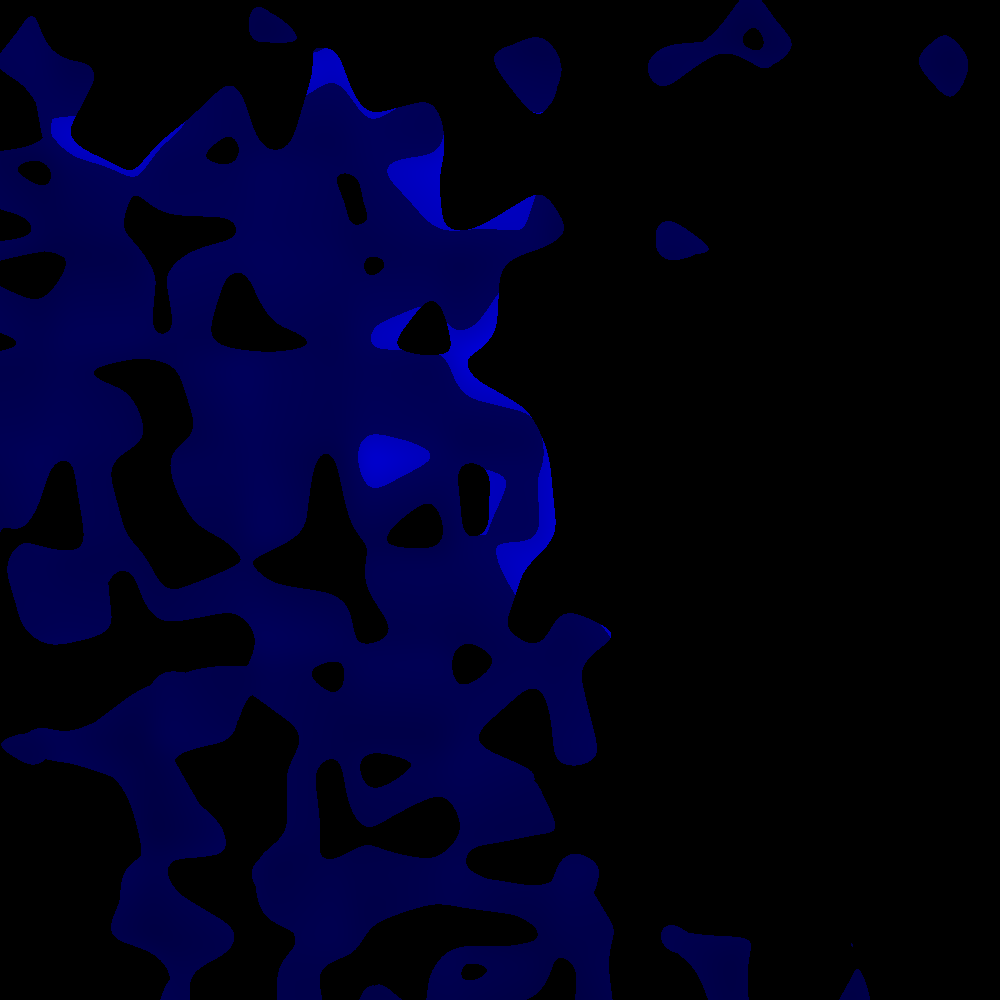
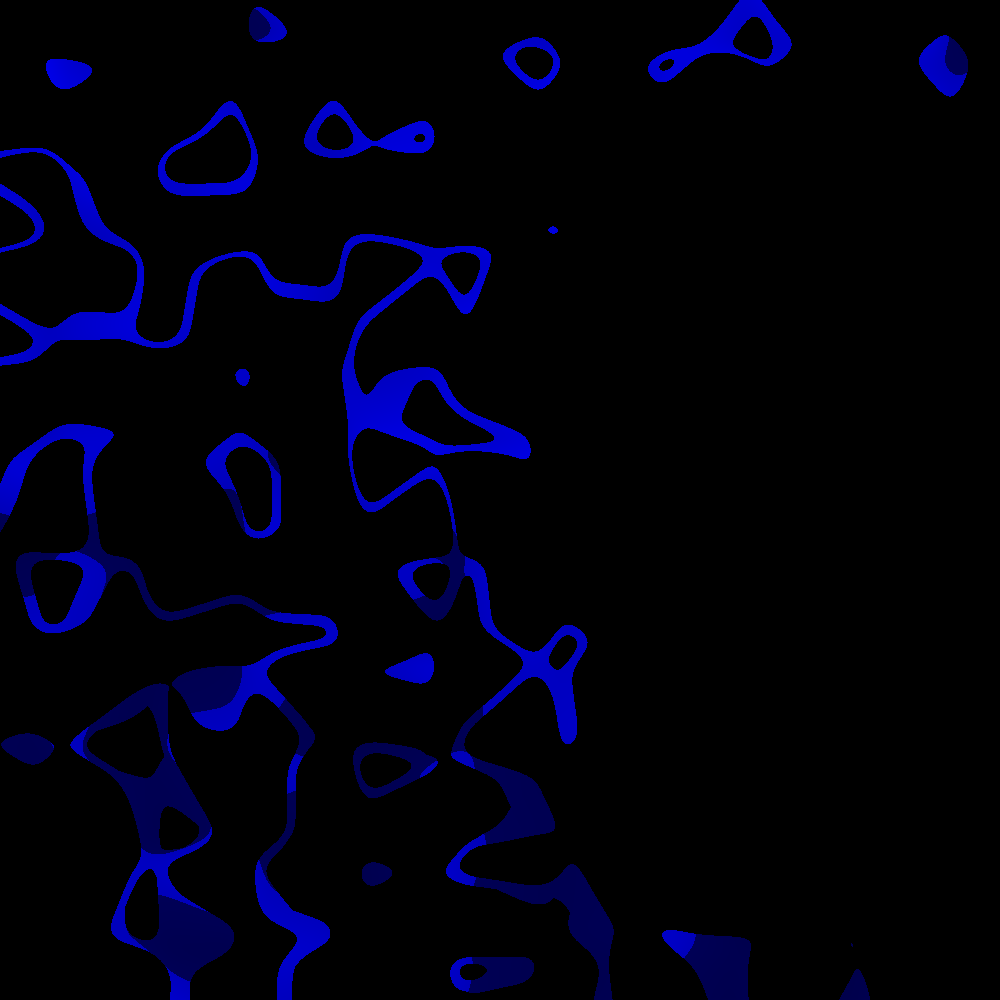
not

diff --git a/lib/src/test/java/procedural_generation/Biomes1Test.java b/lib/src/test/java/procedural_generation/Biomes1Test.java
@@ -88,23 +88,21 @@ public class Biomes1Test {
         }
 
         HashMap<ClimatRule, ClimatMinMax> climatMinMaxes1 = new HashMap<>();
-        climatMinMaxes1.put(wind, new ClimatMinMax(0.4, 0.5, 0.3));
-        climatMinMaxes1.put(temperature, new ClimatMinMax(0.4, 0.5, 0.2));
-        climatMinMaxes1.put(humidity, new ClimatMinMax(0.6, 0.7, 0.2));
+        climatMinMaxes1.put(temperature, new ClimatMinMax(0.4, 0.5, 0.3));
+        climatMinMaxes1.put(humidity, new ClimatMinMax(0.6, 0.65, 0.3));
         Biome plaine = new SimpleBiome(0.51, "plaine", climatMinMaxes1);
         biomes.add(plaine);
 
         HashMap<ClimatRule, ClimatMinMax> climatMinMaxes2 = new HashMap<>();
         climatMinMaxes2.put(wind, new ClimatMinMax(0.5, 0.6, 0.5));
         climatMinMaxes2.put(temperature, new ClimatMinMax(0.8, 0.9, 0.4));
-        climatMinMaxes2.put(humidity, new ClimatMinMax(0.0, 0.4, 0.3));
+        climatMinMaxes2.put(humidity, new ClimatMinMax(0.0, 0.4, 0.4));
         Biome desert = new SimpleBiome(0.6, "desert", climatMinMaxes2);
         biomes.add(desert);
 
         HashMap<ClimatRule, ClimatMinMax> climatMinMaxes3 = new HashMap<>();
-        climatMinMaxes3.put(wind, new ClimatMinMax(0.6, 0.8, 0.3));
-        climatMinMaxes3.put(temperature, new ClimatMinMax(0.2, 0.5, 0.2));
-        climatMinMaxes3.put(humidity, new ClimatMinMax(0.6, 0.8, 0.2));
+        climatMinMaxes3.put(wind, new ClimatMinMax(0.6, 0.8, 0.4));
+        climatMinMaxes3.put(temperature, new ClimatMinMax(0.0, 0.5, 0.3));
         Biome montagne = new SimpleBiome(0.8, "montagne", climatMinMaxes3);
         biomes.add(montagne);
 
@@ -136,13 +134,13 @@ public class Biomes1Test {
 
                 }
                 // only keep the max
-                int base = 185;
+                /*int base = 185;
                 int max = Math.max(Math.max(Math.max(red, green), blue), base);
                 if (max != base) {
                     red = max == red ? red : 0;
                     green = max == green ? green : 0;
                     blue = max == blue ? blue : 0;
-                }
+                }*/
                 try {
                     biomeImage.setRGB(x, y, (new Color(red, green, blue)).getRGB());
                 } catch (Exception ignored) {
